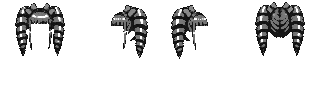
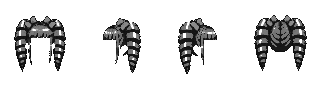
v2 Casa: seis cabelos novos (19 a 24) e o cabelo 14 sem a nuca careca no chibi
- Retrato e chibi dos cabelos novos no estilo E: ondas longas com risca de lado, curto repicado, dois coques,
  rabo baixo com franja de lado, pixie assimétrico e locs com coque no alto.
- Cabelo 14 (cachos em espiral): o chibi agora tem franja e laços como no retrato e cobre a cabeça de frente,
  de lado e de costas (antes a nuca e a testa apareciam e, de lado, a cabeça parecia comprida).
- A criação e o sorteio usam o total de cabelos do catálogo (24).

diff --git a/components/v2/casa/avatar-cor.ts b/components/v2/casa/avatar-cor.ts
@@ -1,4 +1,4 @@
-import type { Aparencia } from '@/lib/devo/casa-aparencia'
+import { type Aparencia, APARENCIA_LIMITES } from '@/lib/devo/casa-aparencia'
 
 /**
  * Aparência do avatar (kit3/avatar-cor.js, aprovado): as peças são cinza e a cor vem destas amostras, sempre de
@@ -452,7 +452,7 @@ export const ANDAR_BOB = [0, 1, 0, -1, 0, 1, 0, -1]
 
 const ARTE = '/v2/art/avatar/'
 // estilo E (12/11): arte nova do retrato e do chibi; a versão muda para o navegador não usar as imagens antigas
-const V = '?v=202611121900'
+const V = '?v=202611122300'
 
 const imgs = new Map<string, Promise<HTMLImageElement>>()
 export function carregaImg(src: string): Promise<HTMLImageElement> {
@@ -933,11 +933,10 @@ export async function folhaAndarFofo(cfg: Aparencia): Promise<HTMLCanvasElement>
 export type PecasBusto = { corpo: HTMLImageElement[]; cabelo: HTMLImageElement[]; rosto: HTMLImageElement[]; roupa: HTMLImageElement[][] }
 
 export async function carregaBusto(): Promise<PecasBusto> {
-  const n = 18
   const [corpo, cabelo, rosto, roupaF, roupaM] = await Promise.all([
     Promise.all(['f', 'm'].map((c) => carregaImg(`${ARTE}corpo-${c}.png${V}`))),
-    Promise.all(Array.from({ length: n }, (_, i) => carregaImg(`${ARTE}cabelo-${i + 1}.png${V}`))),
-    Promise.all(Array.from({ length: n }, (_, i) => carregaImg(`${ARTE}rosto-${i + 1}.png${V}`))),
+    Promise.all(Array.from({ length: APARENCIA_LIMITES.cabelo }, (_, i) => carregaImg(`${ARTE}cabelo-${i + 1}.png${V}`))),
+    Promise.all(Array.from({ length: APARENCIA_LIMITES.rosto }, (_, i) => carregaImg(`${ARTE}rosto-${i + 1}.png${V}`))),
     Promise.all(Array.from({ length: 6 }, (_, i) => carregaImg(`${ARTE}roupa-${i + 1}-f.png${V}`))),
     Promise.all(Array.from({ length: 6 }, (_, i) => carregaImg(`${ARTE}roupa-${i + 1}-m.png${V}`))),
   ])

diff --git a/components/v2/casa/avatar.tsx b/components/v2/casa/avatar.tsx
@@ -295,8 +295,8 @@ export function CriacaoAvatar({
               onClick={() =>
                 setCfg({
                   corpo: sorteia(2),
-                  cabelo: sorteia(18),
-                  rosto: sorteia(18),
+                  cabelo: sorteia(APARENCIA_LIMITES.cabelo),
+                  rosto: sorteia(APARENCIA_LIMITES.rosto),
                   roupa: sorteia(ROUPAS.length),
                   corCabelo: sorteia(CAB.length),
                   corOlhos: sorteia(OLHOS.length),

diff --git a/lib/devo/casa-aparencia.ts b/lib/devo/casa-aparencia.ts
@@ -25,10 +25,10 @@ export type Aparencia = {
   marca: number
 }
 
-/** Quantas opções há de cada parte (kit3/avatar.html): 2 corpos, 18 cabelos, 18 rostos, 6 roupas e as cores. */
+/** Quantas opções há de cada parte (kit3/avatar.html): 2 corpos, 24 cabelos, 18 rostos, 6 roupas e as cores. */
 export const APARENCIA_LIMITES: Record<keyof Aparencia, number> = {
   corpo: 2,
-  cabelo: 18,
+  cabelo: 24,
   rosto: 18,
   roupa: 6,
   corCabelo: 18,
